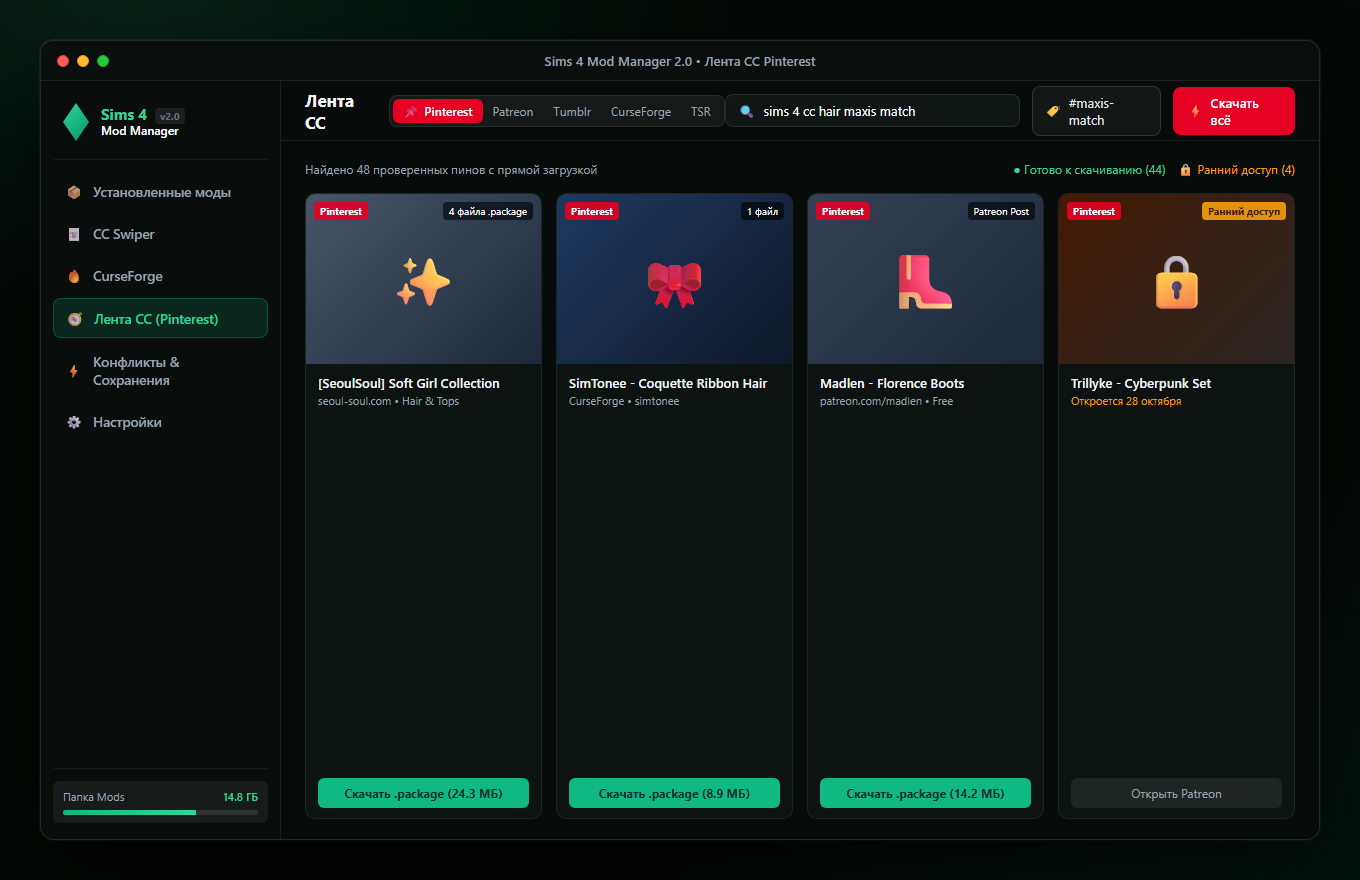
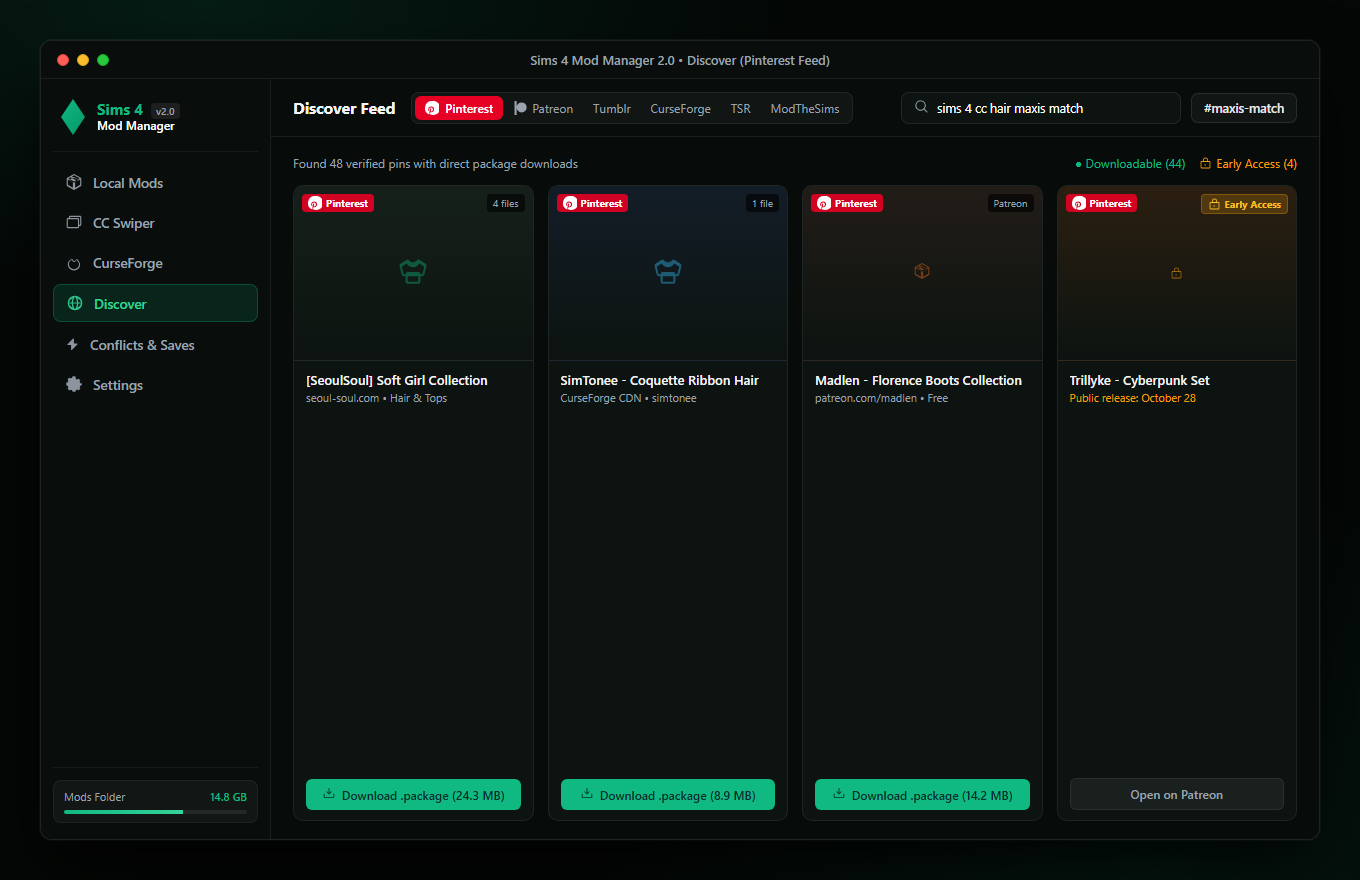
docs: rewrite README in English and update screenshots with clean vector UI

diff --git a/README.md b/README.md
@@ -1,137 +1,141 @@
 # Sims 4 Mod Manager 2.0
 
-Современное десктопное приложение для организации, очистки, поиска и автоматической установки пользовательского контента (Custom Content) и модификаций для **The Sims 4**.
+A modern desktop application for browsing, installing, organizing, and cleaning custom content and mods for **The Sims 4**.
 
-Версия 2.0 представляет собой полное переосмысление проекта: архитектура переписана на связку **Go + Wails v2 + React**, что обеспечило мгновенный запуск, низкое потребление оперативной памяти (~60 МБ) и прямую многопоточную обработку игровых архивов DBPF.
-
----
-
-## Интерфейс и возможности
-
-### 1. Управление локальными модами
-Быстрое сканирование директории `Mods`, извлечение встроенных игровых миниатюр, чтение названий из строк локализации STBL и управление активностью файлов без их физического удаления.
-
-![Управление локальными модами](docs/screenshots/01-local-mods.png)
-
-- **Мгновенная каталогизация**: сортировка по категориям (Причёски, Одежда, Обувь, Скинтоны, Мебель, Скрипты).
-- **Включение и отключение**: переименование расширений для временного скрытия модов от игры.
-- **Поддержка архивов**: автоматическая распаковка `.zip`, `.rar`, `.7z` с корректной маршрутизацией файлов лотов и персонажей в папку `Tray`.
-- **Drag-and-Drop**: установка модификаций простым перетаскиванием файлов в окно программы.
+Version 2.0 is a complete rewrite from the ground up using **Go, Wails v2, React 18, and Tailwind CSS**. It replaces the legacy Electron runtime with a high-performance native Go core, providing instant cold startups, an ultra-low memory footprint (~60 MB RAM), and multi-threaded DBPF package parsing.
 
 ---
 
-### 2. Лента контента: Pinterest, Patreon, Tumblr
-Встроенный агрегатор контента с автоматическим извлечением прямых ссылок на загрузку. Больше не требуется вручную переходить по цепочкам сокращалок и рекламы.
+## Features
 
-![Лента контента Pinterest](docs/screenshots/02-discover-pinterest.png)
+### 1. Local Mods Management
+Fast directory scanning, direct DBPF STBL string localization reading, package thumbnail extraction, and one-click enabling/disabling without deleting files.
 
-- **Скачивание в 1 клик**: бэкенд разрешает ссылки до конечных файлов `.package` на SimFileShare, Google Drive, Patreon и CurseForge.
-- **Фильтрация нерелевантного контента**: алгоритм предварительной верификации автоматически отсеивает фотосессии и тизеры без файлов.
-- **Поддержка блогов авторов**: автоматический переход и парсинг сайтов креаторов (`seoul-soul.com`, Blogspot, Wix).
-- **Статусы Early Access**: посты с платным ранним доступом маркируются специальным индикатором и не смешиваются с бесплатными файлами.
-- **Обход ограничений API**: поддержка прямых CDN-зеркал CurseForge и шлюзов скачивания Patreon.
+![Local Mods Manager](docs/screenshots/01-local-mods.png)
+
+- **Categorization**: Automatic grouping into Packages, Scripts, Archives, CAS Parts, Build/Buy Objects, and Tuning mods.
+- **Enable / Disable Toggle**: Instantly enable or disable mods via extension renaming to isolate broken content.
+- **Archive Extraction**: Drag-and-drop `.zip`, `.rar`, and `.7z` archives with automatic extraction and Tray item routing.
+- **Package Details**: Inspect internal resources (CASP, GEOM 3D mesh, RLE2 textures, STBL strings) and launch the integrated 3D mesh viewer.
 
 ---
 
-### 3. CC Swiper — быстрая очистка папки модов
-Режим пакетного перебора установленных модов в формате свайп-карточек для быстрой очистки накопленного контента.
+### 2. Discover Feed: Pinterest, Patreon, Tumblr
+An integrated content aggregator with an intelligent link resolver that extracts direct package download URLs, bypassing external ad redirects and link shorteners.
+
+![Discover Feed](docs/screenshots/02-discover-pinterest.png)
+
+- **One-Click Direct Downloads**: Automatically resolves SimFileShare, Google Drive, Patreon, and CurseForge links directly to `.package` files.
+- **Smart Feed Filtering**: Background validation workers filter out teaser photos and broken links, displaying only verified downloadable custom content.
+- **Creator Blog Support**: Deep link resolution for creator websites and portfolios (such as `seoul-soul.com`, Blogspot, Wix, and custom creator domains).
+- **Early Access Detection**: Clearly marks paid early access posts with lock indicators, keeping public free content easily accessible.
+- **Edge CDN Fallback**: Downloads CurseForge mods directly via CDN even when third-party API distribution is restricted by the creator.
+
+---
+
+### 3. CC Swiper — Fast Mod Cleaner
+A card-swiping interface designed for cleaning bloated custom content collections.
 
 ![CC Swiper](docs/screenshots/03-cc-swiper.png)
 
-- **Управление с клавиатуры**: стрелки влево/вправо (или клавиши A/D) для удаления или сохранения мода.
-- **Безопасное удаление**: отправка файлов в корзину с возможностью мгновенной отмены последнего действия.
-- **Мобильный режим**: встроенный локальный веб-сервер позволяет проводить чистку модов с экрана телефона или планшета через домашнюю сеть Wi-Fi.
-- **Статистика сессии**: наглядный счетчик удаленных файлов и освобожденного дискового пространства.
+- **Keyboard Controls**: Press `A` (or Left Arrow) to delete, and `D` (or Right Arrow) to keep.
+- **Recycle Bin Safety**: Deleted items are safely moved to the system Recycle Bin with instant undo (`Z`).
+- **Mobile Wi-Fi Companion**: Run the embedded local server to swipe and clean mods directly from your mobile phone or tablet on your local network.
+- **Resource Stats**: Real-time display of 3D polygon counts, texture memory, swatches, and total storage cleaned during the session.
 
 ---
 
-### 4. Каталог CurseForge
-Полноценный клиент официальной платформы модификаций с прямым поиском и отслеживанием обновлений.
+### 4. CurseForge Catalog Browser
+A full-featured client for the official CurseForge mod platform with search, category filtering, and automated updates.
 
-![Каталог CurseForge](docs/screenshots/04-curseforge.png)
+![CurseForge Catalog](docs/screenshots/04-curseforge.png)
 
-- Поиск по авторам, названиям и категориям модификаций.
-- Уведомления об устаревших версиях установленных скриптов (MCCC, UI Cheats, WonderfulWhims и др.).
-- Бесшовная загрузка и фоновая установка в один клик.
-
----
-
-### 5. Диагностика, конфликты и анализ сохранений
-Комплексный инструментарий для поддержания стабильности игры и предотвращения сбоев.
-
-![Диагностика и Конфликты](docs/screenshots/05-diagnostics.png)
-
-- **Детектор конфликтов**: выявление дублирующихся Tuning ID и пересекающихся ресурсов между модами.
-- **Поиск точных дубликатов**: сканирование по контрольным суммам SHA-256 для удаления случайно продублированных файлов.
-- **Polycount Analyzer**: выявление тяжелых высокополигональных 3D-моделей, просаживающих FPS в игре.
-- **Сканер файлов сохранений (`.save`)**: анализ используемого персонажами CC и обнаружение удаленных элементов, вызывающих визуальные глитчи.
+- Browse and search popular gameplay mods, traits, careers, and custom content.
+- **Update Checker**: Automatically detects new releases for installed script mods (e.g., MC Command Center, UI Cheats Extension, WonderfulWhims).
+- Background downloading with automated extraction into the `Mods` directory.
 
 ---
 
-## Архитектура и технологии
+### 5. Diagnostics, Conflicts & Save Inspector
+A comprehensive diagnostic suite for game stability and performance optimization.
 
-| Компонент | Стек / Библиотека | Назначение |
+![Diagnostics & Conflicts](docs/screenshots/05-diagnostics.png)
+
+- **Conflict Detection**: Scans for conflicting Tuning IDs, instance overlaps, and duplicated GUIDs between packages.
+- **Duplicate Scanner**: Identifies exact file duplicates across subfolders using SHA-256 hash comparisons.
+- **Polycount Analyzer**: Flags high-poly meshes that can cause frame rate drops and simulation lag.
+- **Save File Inspector**: Analyzes `.save` files to verify that all custom content used by your Sims is installed, preventing missing mesh glitches.
+
+---
+
+## Architecture & Technology Stack
+
+| Component | Technology | Purpose |
 | :--- | :--- | :--- |
-| **Backend Core** | Go 1.22+ | Высокопроизводительный парсер DBPF, HTTP-резолвер, сетевые воркеры |
-| **Desktop Runtime** | Wails v2 | Нативная интеграция с Windows WebView2, минимальный оверхед |
-| **Frontend UI** | React 18, Vite | Компонентная структура интерфейса, быстрый рендеринг |
-| **Стилизация** | Tailwind CSS | Адаптивная темная тема, аппаратная отрисовка эффектов |
-| **3D Rendering** | Three.js | Интерактивный просмотр GEOM мешей и материалов в браузере мода |
-| **Локализация** | Custom i18n | Полная поддержка русского и английского языков |
+| **Backend Core** | Go 1.22+ | High-throughput DBPF parser, HTTP link resolver, multi-threaded worker pools |
+| **Desktop Shell** | Wails v2 | Native Windows WebView2 runtime, replacing Electron |
+| **Frontend UI** | React 18, Vite | Component architecture, responsive dark theme |
+| **Styling** | Tailwind CSS v4 | Hardware-accelerated UI rendering, modern Sims Plumbob mineral theme |
+| **3D Rendering** | Three.js | Real-time interactive inspection of CAS and Object GEOM meshes |
+| **Localization** | Custom i18n | Multi-language support (English and Russian) |
 
 ---
 
-## Системные требования
+## System Requirements
 
-- **Операционная система**: Windows 10 / Windows 11 (64-bit).
-- **Установленная игра**: The Sims 4 (поддерживаются версии EA App, Steam, а также альтернативные установки).
-- **Среда выполнения**: Microsoft Edge WebView2 (предустановлен в современных версиях Windows).
-
----
-
-## Быстрый запуск
-
-1. Перейдите на страницу [Releases](https://github.com/268268268/sims4cc/releases).
-2. Загрузите актуальный архив или исполняемый файл `sims4-mod-manager.exe`.
-3. Запустите приложение. При первом старте укажите путь к вашей директории `Electronic Arts\The Sims 4\Mods` (по умолчанию определяется автоматически).
+- **Operating System**: Windows 10 or Windows 11 (64-bit).
+- **Game**: The Sims 4 (EA App, Steam, or custom installation path).
+- **Runtime**: Microsoft Edge WebView2 (preinstalled on modern Windows installations).
 
 ---
 
-## Сборка из исходного кода
+## Installation
 
-Для самостоятельной сборки приложения необходимы установленные инструменты:
-- **Go** 1.22 или новее
-- **Node.js** 18+ и **npm**
-- **Wails CLI** (`go install github.com/wailsapp/wails/v2/cmd/wails@latest`)
+1. Download the latest release from the [Releases](https://github.com/268268268/sims4cc/releases) page:
+   - `sims4-mod-manager.exe` — Standalone portable executable (no installer required).
+   - `sims4-mod-manager-v2.0.0-windows-x64.zip` — Compressed release archive.
+2. Launch the application. On first startup, select your `Electronic Arts\The Sims 4\Mods` directory (auto-detected if in standard location).
 
-### Шаги компиляции:
+---
+
+## Building from Source
+
+### Prerequisites
+- **Go** (version 1.22 or higher)
+- **Node.js** (version 18 or higher) and **npm**
+- **Wails CLI v2**:
+  ```bash
+  go install github.com/wailsapp/wails/v2/cmd/wails@latest
+  ```
+
+### Build Steps
 
 ```bash
-# Клонирование репозитория
+# Clone the repository
 git clone https://github.com/268268268/sims4cc.git
 cd sims4cc
 
-# Установка зависимостей интерфейса
+# Install frontend dependencies
 cd frontend
 npm install
 cd ..
 
-# Сборка готового бинарного файла
+# Build release executable
 wails build
 ```
 
-Скомпилированное приложение будет находиться в директории `build/bin/sims4-mod-manager.exe`.
+The resulting binary will be placed at `build/bin/sims4-mod-manager.exe`.
 
 ---
 
-## Поддерживаемые источники контента
+## Supported Content Sources
 
-- **Прямые платформы**: Pinterest, Patreon, Tumblr, Boosty, CurseForge, ModTheSims, TheSimsResource, GitHub, itch.io.
-- **Файловые хостинги**: SimFileShare, Google Drive, MediaFire, MEGA.
-- **Блоги и каталоги креаторов**: SeoulSoul, Blogspot, Wix, SimsFinds и персональные домены авторов.
+- **Platforms**: Pinterest, Patreon, Tumblr, Boosty, CurseForge, ModTheSims, The Sims Resource, GitHub Releases, itch.io.
+- **File Hosts**: SimFileShare, Google Drive, MediaFire, MEGA, Dropbox.
+- **Creator Portals**: SeoulSoul, Blogspot, Wix, SimsFinds, and custom author domains.
 
 ---
 
-## Лицензия
+## License
 
-Проект распространяется под лицензией MIT. Не является официальным продуктом Electronic Arts или Maxis. Все торговые марки принадлежат их законным правообладателям.
+Distributed under the MIT License. This is an independent fan project not affiliated with or endorsed by Electronic Arts or Maxis. All trademarks belong to their respective owners.
